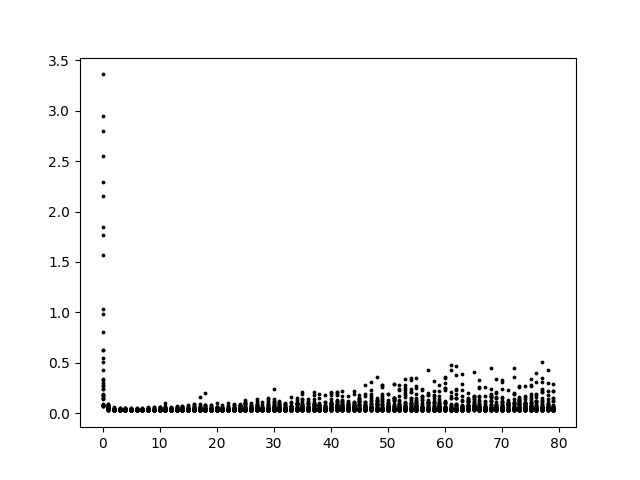
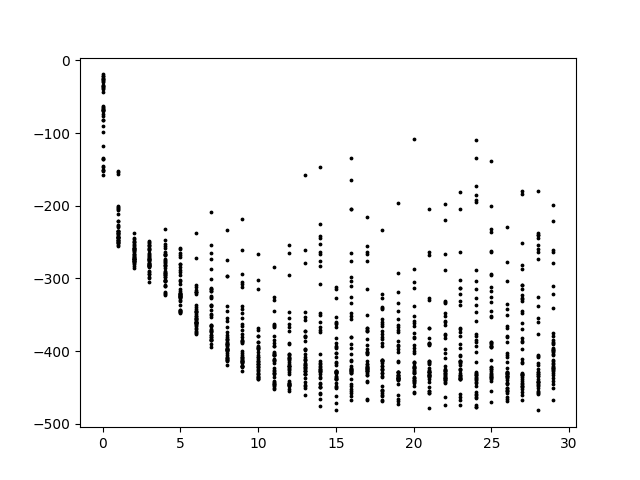
trying -x as loss F

diff --git a/train.py b/train.py
@@ -6,42 +6,44 @@ from dataset import new_dataloader
 import matplotlib.pyplot as plt
 import os
 from conf import DEVICE
+import math
 
 BATCH_SIZE = 12
 DATA_SIZE = 360
-TOTAL_EPOCH = 10
+TOTAL_EPOCH = 30
 LR = 1e-3
 
-PRE_TRAINED = True
+PRE_TRAINED = False
 
 
 def main():
-    global TARGET
-    sc = SupplyChain()
+    sc = SupplyChain().to(DEVICE)
     if PRE_TRAINED:
         sc.load_state_dict(torch.load("./models/weight.pth"))
     train_dl = new_dataloader(DATA_SIZE, BATCH_SIZE)
     valid_dl = new_dataloader(DATA_SIZE, BATCH_SIZE)
-    loss_fn = nn.MSELoss()
+    loss_fn = lambda x: -x
     optimizer = torch.optim.Adam(sc.parameters(), lr=LR)
     max_avg_profit = 0
     best_model = {}
     for epoch_num in range(TOTAL_EPOCH):
         profits = 0
         sc.train()
-        for _, demands in enumerate(train_dl):
+        for batch_id, demands in enumerate(train_dl):
             total_profit = sc(demands)
             profits += total_profit.item()
-            loss = -total_profit
+            loss = loss_fn(total_profit)
+            # loss = loss_fn(sc.salers[0]._profit)
             plt.scatter(epoch_num, loss.item(), c="black", s=3)
             optimizer.zero_grad()
             loss.backward()
             optimizer.step()
             sc.init()
             logging.info(
-                f"epoch num: {epoch_num}\t total_profit: {total_profit.item():.2f}\t loss: {loss.item():.4f}"
+                f"epoch num: {epoch_num}\t batch_id: {batch_id}, total_profit: {total_profit.item():.2f}\t loss: {loss.item():.4f}"
             )
-        avg_profit = profits / (DATA_SIZE // BATCH_SIZE + 1)
+
+        avg_profit = profits / (math.ceil(DATA_SIZE / BATCH_SIZE))
         logging.info(f"epoch num: {epoch_num}\t avg_profit: {avg_profit:.2f}")
         print(f"epoch num: {epoch_num}\t avg_profit: {avg_profit:.2f}")
         if avg_profit > max_avg_profit:
@@ -56,7 +58,7 @@ def main():
             total_profit = sc(demands)
             profits += total_profit.item()
             sc.init()
-        print(f"valid avg_profit: {profits / (DATA_SIZE // BATCH_SIZE + 1):.2f}")
+        print(f"valid avg_profit: {profits / math.ceil(DATA_SIZE / BATCH_SIZE):.2f}")
 
     if 'y' == input("save model?[y/N]\t").strip().lower():
         save(best_model)
@@ -73,7 +75,7 @@ def save(best_model):
 
 if __name__ == '__main__':
     logging.basicConfig(
-        filename="chain.log", filemode='w', encoding="utf-8", level=logging.DEBUG
+        filename="train.log", filemode='w', encoding="utf-8", level=logging.DEBUG
     )
     main()
-    print("log here: ./chain.log")
+    print("log here: ./train.log")

diff --git a/chain.py b/chain.py
@@ -65,9 +65,11 @@ class Saler(nn.Module):
         self._epoch_num = 0
         self._log = {}
         self._stocker = Storehouse(id, initial_stock)
+
         self.lstm = nn.LSTM(7, 8)
         self.linear = nn.Linear(8, 1)
         self.relu = nn.ReLU()
+
         self._profit = torch.zeros(1).to(DEVICE)  # 利润
         self._selling_price = torch.tensor([selling_price], dtype=torch.float).to(
             DEVICE
@@ -207,6 +209,8 @@ class SupplyChain(nn.Module):
         for demand in demands:
             order_form = OrderForm(None, demand)
             self.salers[0](order_form=order_form)
+            logging.debug('\n' + str(self))
+            logging.debug(f"total profit: {self.total_profit.item():.2f}")
         return self.total_profit
 
     def parameters(self, recurse: bool = True) -> Iterator[Parameter]:

diff --git a/README.md b/README.md
@@ -124,7 +124,7 @@ The loss image:
 
 <p align="right">(<a href="#readme-top">back to top</a>)</p>
 
-
+<!-- 
 
 Due to `MSELOSS` and this mutative optimization target:
 
@@ -136,7 +136,7 @@ Due to `MSELOSS` and this mutative optimization target:
 ```
 
 The final loss should be:
-$(1 - \dfrac{1}{1.2})^2 = 0.028$
+$(1 - \dfrac{1}{1.2})^2 = 0.028$ -->
 
 <!-- ROADMAP -->
 ## Roadmap
